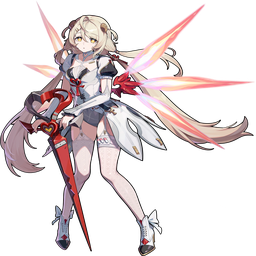
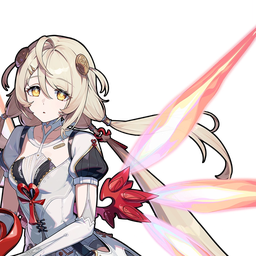
Update Phoenix and Severian headshot portraits, crop algorithm, and manifest checksums

diff --git a/tools/character_asset_pipeline/crop_character_icons.py b/tools/character_asset_pipeline/crop_character_icons.py
@@ -59,34 +59,46 @@ def sanitize_internal_name(display_name: str) -> str:
 
 
 def calculate_smart_face_crop(
-    face_box: Tuple[int, int, int, int], img_w: int, img_h: int
+    face_box: Tuple[int, int, int, int], img_w: int, img_h: int, expansion: float = 2.6
 ) -> Tuple[int, int, int, int]:
     """
     Computes a 1:1 square crop area around a detected face box [x, y, w, h].
-    Expands the box to max(w, h) * 2.6 and biases upward by 0.15 * S toward the eyes,
-    leaving 0.8x head clearance at top and 1.8x shoulders below.
+    Expands the box to max(w, h) * expansion and biases slightly toward eye level.
+    Clamps within image boundaries to avoid artificial transparent padding.
     """
     x, y, w, h = face_box
     cx = x + w / 2.0
     cy = y + h / 2.0
 
-    s = int(round(max(w, h) * 2.6))
+    s = int(round(max(w, h) * expansion))
+    s = min(s, min(img_w, img_h))
+
     target_cy = int(round(cy - 0.15 * s))
     target_cx = int(round(cx))
 
     half_s = s // 2
     x1 = target_cx - half_s
     y1 = target_cy - half_s
-    x2 = x1 + s
-    y2 = y1 + s
 
-    return (x1, y1, x2, y2)
+    # Clamp inside image boundaries so we don't introduce empty space above head
+    if y1 < 0:
+        y1 = 0
+    elif y1 + s > img_h:
+        y1 = img_h - s
+
+    if x1 < 0:
+        x1 = 0
+    elif x1 + s > img_w:
+        x1 = img_w - s
+
+    return (x1, y1, x1 + s, y1 + s)
 
 
 def crop_and_resize_face(
     image: Image.Image,
     face_box: Tuple[int, int, int, int],
     target_size: Tuple[int, int] = (256, 256),
+    expansion: float = 2.6,
 ) -> Image.Image:
     """
     Crops the face area with padding if boundaries exceed image dimensions,
@@ -95,7 +107,7 @@ def crop_and_resize_face(
     rgba_img = image.convert("RGBA")
     img_w, img_h = rgba_img.size
 
-    x1, y1, x2, y2 = calculate_smart_face_crop(face_box, img_w, img_h)
+    x1, y1, x2, y2 = calculate_smart_face_crop(face_box, img_w, img_h, expansion=expansion)
     crop_w = x2 - x1
     crop_h = y2 - y1
 
@@ -349,9 +361,19 @@ def fetch_image_and_process(
         img_bytes, quality = wiki_result
         try:
             pil_img = Image.open(BytesIO(img_bytes)).convert("RGBA")
-            pil_img = pil_img.resize((256, 256), Image.Resampling.LANCZOS)
+            # If wiki returned vertical portrait art or non-square render, perform headshot crop
+            w, h = pil_img.size
+            if abs(w - h) > 20 or h > 300:
+                face_box = detect_face_in_image(pil_img)
+                if face_box:
+                    cropped = crop_and_resize_face(pil_img, face_box, (256, 256), expansion=1.5)
+                else:
+                    cropped = pil_img.resize((256, 256), Image.Resampling.LANCZOS)
+            else:
+                cropped = pil_img.resize((256, 256), Image.Resampling.LANCZOS)
+
             out_buf = BytesIO()
-            pil_img.save(out_buf, format="PNG")
+            cropped.save(out_buf, format="PNG")
             return (out_buf.getvalue(), "official_avatar")
         except Exception:
             pass
